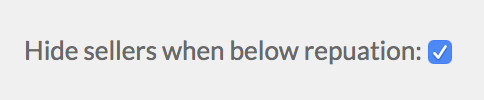
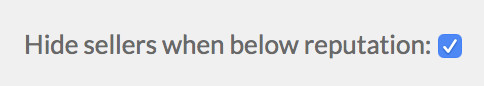
Fix spelling

diff --git a/html/learn.html b/html/learn.html
@@ -626,7 +626,7 @@
 
       <img src="../img/learn/seller-rep-tag-color.png" class="max-width" />
 
-      <p>You can also hide these sellers by checking the "Hide sellers when below repuation" checkbox.</p>
+      <p>You can also hide these sellers by checking the "Hide sellers when below reputation" checkbox.</p>
 
       <img src="../img/learn/seller-rep-filter.jpg" class="max-width" />
 
